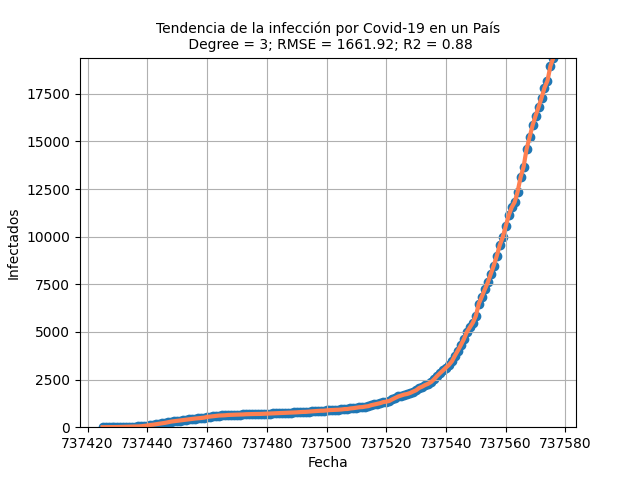
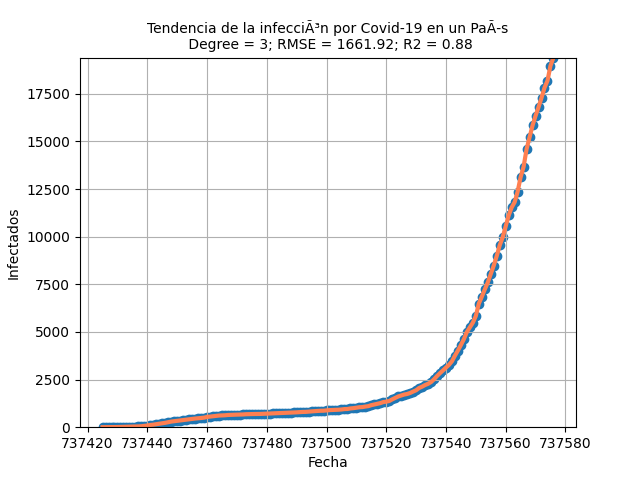
Solucione error de descarga de archivo rep 11 y 16

Changed region(s): [[0.2188, 0.0312, 0.7812, 0.0938]]

diff --git a/Proyecto/Templates/IEEErep11.html b/Proyecto/Templates/IEEErep11.html
@@ -36,21 +36,26 @@
         <table style="border: hidden" align="center">
             <tbody style="border: hidden">
                 <tr style="border: hidden">
-                    <th style="border: hidden" align="center">Porcentaje de hombres infectados por covid-19 en un Pais desde el primer caso activo</th>
+                    <th style="border: hidden" align="center">Porcentaje de hombres infectados por covid-19 en un País desde el primer caso activo</th>
                     <td style="border: hidden"> </td>
                     <th style="border: hidden" align="center">Interpretacion:</th>
                 </tr>
 
                 <tr style="border: hidden">
-                    <td style="border: hidden">El coronavirus afecta de manera desproporcionada a las poblaciones
-                        vulnerables, y corren mayor riesgo de contraerlo quienes viven en entornos superpoblados.
-                        Además, el estudio apunta que la falta de desglose de los datos favorece la desigualdad de los
-                        resultados sanitarios, ya que solo el 51% de los países incluyen datos desglosados en sus
-                        informes estadísticos nacionales. 
+                    <td style="border: hidden">Las tendencias responden a distintos estímulos. En ocasiones son
+                        adoptadas
+                        lentamente, a lo largo de cambios en la cultura, mientras en otras ocurren por una
+                        masiva adopción causada por un fuerte estímulo externo. En un mundo dominado
+                        por enormes organizaciones que muchas veces se constituyen en reglas antiguas,
+                        un shock como el del COVID-19 puede generar grandes cambios en la forma que
+                        se opera la economía.
                         <br>
-                        Uruguay y Panamá fueron los países que destacaron de todos los
-                        evaluados,
-                        tuvieron una mayor cantidad de casos confirmados ponderados en la primera semana de la pandemia.
+                        La gente elige en entornos familiares, rutinarios y seguros que les simplifican esa
+                        toma de decisiones, que muchas veces se vuelve automática. Pero la inestabilidad
+                        que ha traído el COVID-19 ha creado ambientes fuera de contexto, no familiares y
+                        sin predictibilidad. En este nuevo ambiente las empresas deben encontrar la forma
+                        de adaptarse para sobrevivir, porque la historia ha probado que incluso en la
+                        hostilidad de las crisis las empresas nuevas o innovadoras pueden prosperar.
                     </td>
                     <td style="border: hidden"></td>
                     <td style="border: hidden"> {{descripcion}} </td>

diff --git a/Proyecto/template.py b/Proyecto/template.py
@@ -1079,22 +1079,22 @@ def Reporte11():
 
     if(pend > 0):
         if(r2 < 0.25):
-            descripcion = "Actualmente se esta viviendo una situacion a nivel mundial con la enfermedad de Covid-19, en lo cual todos los paises nos hemos vuelto muy suceptibles, por lo cual gracias a las herramientas actuales se puede decir que " + "los paises " + " se ven afectados de manera directa. Por lo cual realizando un analisis de regresion polinomial de grado 3, nos podemos dar cuenta que se tiene un error cuadratico medio de " + str(round(rmse,2)) + " este error medio nos indica la cantidad de de error que tenemos entre los conjuntos de datos " + " de fechas e infecciones que se estan dando en el pais este datos nos ayuda para poder evaluar la tendencia entre dos valores, ahora bien nos podemos dar cuenta que el valor del coeficiente de determinación " + str(round(r2,2)) + " indica que el modelo no explica ninguna porción de la variabilidad de los datos de respuesta en torno a su media es decir que los datos en este caso no se encuentran correlacionados ya que estan muy alejados de 1." + "Con un indice de progresion positivo de " + str(pend) + "Por lo cual se tiene un porcentaje de muertes frente al total de casos de " + str(round(porcentaje,2)) + "%"
+            descripcion = "Actualmente se esta viviendo una situacion a nivel mundial con la enfermedad de Covid-19, en lo cual todos los paises nos hemos vuelto muy suceptibles, por lo cual gracias a las herramientas actuales se puede decir que " + "los paises " + " se ven afectados de manera directa. Por lo cual realizando un analisis de regresion polinomial de grado 3, nos podemos dar cuenta que se tiene un error cuadratico medio de " + str(round(rmse,2)) + " este error medio nos indica la cantidad de de error que tenemos entre los conjuntos de datos " + " de fechas e infecciones que se estan dando en el pais este datos nos ayuda para poder evaluar la tendencia entre dos valores, ahora bien nos podemos dar cuenta que el valor del coeficiente de determinación " + str(round(r2,2)) + " indica que el modelo no explica ninguna porción de la variabilidad de los datos de respuesta en torno a su media es decir que los datos en este caso no se encuentran correlacionados ya que estan muy alejados de 1." + "Con un indice de progresion positivo de " + str(pend) + "por lo cual el porcentaje de hombres infectados por covid-19 en un País desde el primer caso activo " + str(round(porcentaje,2))
         elif(r2 < 0.5):
-            descripcion = "Actualmente se esta viviendo una situacion a nivel mundial con la enfermedad de Covid-19, en lo cual todos los paises nos hemos vuelto muy suceptibles, por lo cual gracias a las herramientas actuales se puede decir que " + "los paises " + " se ve afectados de manera directa. Por lo cual realizando un analisis de regresion polinomial de grado 3, nos podemos dar cuenta que se tiene un error cuadratico medio de " + str(round(rmse,2)) + " este error medio nos indica la cantidad de de error que tenemos entre los conjuntos de datos " + " de fechas e infecciones que se estan dando en el pais este datos nos ayuda para poder evaluar la tendencia entre dos valores, ahora bien nos podemos dar cuenta que el valor del coeficiente de determinación " + str(round(r2,2)) + " indica que el modelo no explica ninguna porción de la variabilidad de los datos de respuesta en torno a su media es decir que los datos en este caso casi no se encuentran correlacionados ya que estan muy alejados de 1." + "Con un indice de progresion positivo de " + str(pend) + "Por lo cual se tiene un porcentaje de muertes frente al total de casos de " + str(round(porcentaje,2)) + "%"
+            descripcion = "Actualmente se esta viviendo una situacion a nivel mundial con la enfermedad de Covid-19, en lo cual todos los paises nos hemos vuelto muy suceptibles, por lo cual gracias a las herramientas actuales se puede decir que " + "los paises " + " se ve afectados de manera directa. Por lo cual realizando un analisis de regresion polinomial de grado 3, nos podemos dar cuenta que se tiene un error cuadratico medio de " + str(round(rmse,2)) + " este error medio nos indica la cantidad de de error que tenemos entre los conjuntos de datos " + " de fechas e infecciones que se estan dando en el pais este datos nos ayuda para poder evaluar la tendencia entre dos valores, ahora bien nos podemos dar cuenta que el valor del coeficiente de determinación " + str(round(r2,2)) + " indica que el modelo no explica ninguna porción de la variabilidad de los datos de respuesta en torno a su media es decir que los datos en este caso casi no se encuentran correlacionados ya que estan muy alejados de 1." + "Con un indice de progresion positivo de " + str(pend) + "por lo cual el porcentaje de hombres infectados por covid-19 en un País desde el primer caso activo" + str(round(porcentaje,2))
         elif(r2 < 0.75):
-            descripcion = "Actualmente se esta viviendo una situacion a nivel mundial con la enfermedad de Covid-19, en lo cual todos los paises nos hemos vuelto muy suceptibles, por lo cual gracias a las herramientas actuales se puede decir que " + "los paises " + " se ve afectados de manera directa. Por lo cual realizando un analisis de regresion polinomial de grado 3, nos podemos dar cuenta que se tiene un error cuadratico medio de " + str(round(rmse,2)) + " este error medio nos indica la cantidad de de error que tenemos entre los conjuntos de datos " + " de fechas e infecciones que se estan dando en el pais este datos nos ayuda para poder evaluar la tendencia entre dos valores, ahora bien nos podemos dar cuenta que el valor del coeficiente de determinación " + str(round(r2,2)) + " indica que el modelo medio explica la porción de la variabilidad de los datos de respuesta en torno a su media es decir que los datos en este caso se encuentran un poco correlacionados ya que no estan muy alejados de 1." + "Con un indice de progresion positivo de " + str(pend) + "Por lo cual se tiene un porcentaje de muertes frente al total de casos de " + str(round(porcentaje,2)) + "%"
+            descripcion = "Actualmente se esta viviendo una situacion a nivel mundial con la enfermedad de Covid-19, en lo cual todos los paises nos hemos vuelto muy suceptibles, por lo cual gracias a las herramientas actuales se puede decir que " + "los paises " + " se ve afectados de manera directa. Por lo cual realizando un analisis de regresion polinomial de grado 3, nos podemos dar cuenta que se tiene un error cuadratico medio de " + str(round(rmse,2)) + " este error medio nos indica la cantidad de de error que tenemos entre los conjuntos de datos " + " de fechas e infecciones que se estan dando en el pais este datos nos ayuda para poder evaluar la tendencia entre dos valores, ahora bien nos podemos dar cuenta que el valor del coeficiente de determinación " + str(round(r2,2)) + " indica que el modelo medio explica la porción de la variabilidad de los datos de respuesta en torno a su media es decir que los datos en este caso se encuentran un poco correlacionados ya que no estan muy alejados de 1." + "Con un indice de progresion positivo de " + str(pend) + "por lo cual el porcentaje de hombres infectados por covid-19 en un País desde el primer caso activo" + str(round(porcentaje,2))
         elif(r2 >= 0.75):
-            descripcion = "Actualmente se esta viviendo una situacion a nivel mundial con la enfermedad de Covid-19, en lo cual todos los paises nos hemos vuelto muy suceptibles, por lo cual gracias a las herramientas actuales se puede decir que " + "los paises " + " se ve afectados de manera directa. Por lo cual realizando un analisis de regresion polinomial de grado 3, nos podemos dar cuenta que se tiene un error cuadratico medio de " + str(round(rmse,2)) + " este error medio nos indica la cantidad de de error que tenemos entre los conjuntos de datos " + " de fechas e infecciones que se estan dando en el pais este datos nos ayuda para poder evaluar la tendencia entre dos valores, ahora bien nos podemos dar cuenta que el valor del coeficiente de determinación " + str(round(r2,2)) + " indica que el modelo indica que el modelo explica toda la variabilidad de los datos de respuesta en torno a su media es decir que los datos en este caso se encuentran correlacionados ya que estan muy cercanos a 1." + "Con un indice de progresion positivo de " + str(pend) + "Por lo cual se tiene un porcentaje de muertes frente al total de casos de " + str(round(porcentaje,2)) + "%"
+            descripcion = "Actualmente se esta viviendo una situacion a nivel mundial con la enfermedad de Covid-19, en lo cual todos los paises nos hemos vuelto muy suceptibles, por lo cual gracias a las herramientas actuales se puede decir que " + "los paises " + " se ve afectados de manera directa. Por lo cual realizando un analisis de regresion polinomial de grado 3, nos podemos dar cuenta que se tiene un error cuadratico medio de " + str(round(rmse,2)) + " este error medio nos indica la cantidad de de error que tenemos entre los conjuntos de datos " + " de fechas e infecciones que se estan dando en el pais este datos nos ayuda para poder evaluar la tendencia entre dos valores, ahora bien nos podemos dar cuenta que el valor del coeficiente de determinación " + str(round(r2,2)) + " indica que el modelo indica que el modelo explica toda la variabilidad de los datos de respuesta en torno a su media es decir que los datos en este caso se encuentran correlacionados ya que estan muy cercanos a 1." + "Con un indice de progresion positivo de " + str(pend) + "por lo cual el porcentaje de hombres infectados por covid-19 en un País desde el primer caso activo " + str(round(porcentaje,2))
     elif(pend < 0):
         if(r2 < 0.25):
-            descripcion = "Actualmente se esta viviendo una situacion a nivel mundial con la enfermedad de Covid-19, en lo cual todos los paises nos hemos vuelto muy suceptibles, por lo cual gracias a las herramientas actuales se puede decir que " + "los paises " + " se ven afectados de manera directa. Por lo cual realizando un analisis de regresion polinomial de grado 3, nos podemos dar cuenta que se tiene un error cuadratico medio de " + str(round(rmse,2)) + " este error medio nos indica la cantidad de de error que tenemos entre los conjuntos de datos " + " de fechas e infecciones que se estan dando en el pais este datos nos ayuda para poder evaluar la tendencia entre dos valores, ahora bien nos podemos dar cuenta que el valor del coeficiente de determinación " + str(round(r2,2)) + " indica que el modelo no explica ninguna porción de la variabilidad de los datos de respuesta en torno a su media es decir que los datos en este caso no se encuentran correlacionados ya que estan muy alejados de 1." + "Con un indice de progresion negativo de " + str(pend) + "Por lo cual se tiene un porcentaje de muertes frente al total de casos de " + str(round(porcentaje,2)) + "%"
+            descripcion = "Actualmente se esta viviendo una situacion a nivel mundial con la enfermedad de Covid-19, en lo cual todos los paises nos hemos vuelto muy suceptibles, por lo cual gracias a las herramientas actuales se puede decir que " + "los paises " + " se ven afectados de manera directa. Por lo cual realizando un analisis de regresion polinomial de grado 3, nos podemos dar cuenta que se tiene un error cuadratico medio de " + str(round(rmse,2)) + " este error medio nos indica la cantidad de de error que tenemos entre los conjuntos de datos " + " de fechas e infecciones que se estan dando en el pais este datos nos ayuda para poder evaluar la tendencia entre dos valores, ahora bien nos podemos dar cuenta que el valor del coeficiente de determinación " + str(round(r2,2)) + " indica que el modelo no explica ninguna porción de la variabilidad de los datos de respuesta en torno a su media es decir que los datos en este caso no se encuentran correlacionados ya que estan muy alejados de 1." + "Con un indice de progresion negativo de " + str(pend) + "por lo cual el porcentaje de hombres infectados por covid-19 en un País desde el primer caso activo" + str(round(porcentaje,2))
         elif(r2 < 0.5):
-            descripcion = "Actualmente se esta viviendo una situacion a nivel mundial con la enfermedad de Covid-19, en lo cual todos los paises nos hemos vuelto muy suceptibles, por lo cual gracias a las herramientas actuales se puede decir que " + "los paises " + " se ve afectados de manera directa. Por lo cual realizando un analisis de regresion polinomial de grado 3, nos podemos dar cuenta que se tiene un error cuadratico medio de " + str(round(rmse,2)) + " este error medio nos indica la cantidad de de error que tenemos entre los conjuntos de datos " + " de fechas e infecciones que se estan dando en el pais este datos nos ayuda para poder evaluar la tendencia entre dos valores, ahora bien nos podemos dar cuenta que el valor del coeficiente de determinación " + str(round(r2,2)) + " indica que el modelo no explica ninguna porción de la variabilidad de los datos de respuesta en torno a su media es decir que los datos en este caso casi no se encuentran correlacionados ya que estan muy alejados de 1." + "Con un indice de progresion negativo de " + str(pend) + "Por lo cual se tiene un porcentaje de muertes frente al total de casos de " + str(round(porcentaje,2)) + "%"
+            descripcion = "Actualmente se esta viviendo una situacion a nivel mundial con la enfermedad de Covid-19, en lo cual todos los paises nos hemos vuelto muy suceptibles, por lo cual gracias a las herramientas actuales se puede decir que " + "los paises " + " se ve afectados de manera directa. Por lo cual realizando un analisis de regresion polinomial de grado 3, nos podemos dar cuenta que se tiene un error cuadratico medio de " + str(round(rmse,2)) + " este error medio nos indica la cantidad de de error que tenemos entre los conjuntos de datos " + " de fechas e infecciones que se estan dando en el pais este datos nos ayuda para poder evaluar la tendencia entre dos valores, ahora bien nos podemos dar cuenta que el valor del coeficiente de determinación " + str(round(r2,2)) + " indica que el modelo no explica ninguna porción de la variabilidad de los datos de respuesta en torno a su media es decir que los datos en este caso casi no se encuentran correlacionados ya que estan muy alejados de 1." + "Con un indice de progresion negativo de " + str(pend) + "por lo cual el porcentaje de hombres infectados por covid-19 en un País desde el primer caso activo " + str(round(porcentaje,2))
         elif(r2 < 0.75):
-            descripcion = "Actualmente se esta viviendo una situacion a nivel mundial con la enfermedad de Covid-19, en lo cual todos los paises nos hemos vuelto muy suceptibles, por lo cual gracias a las herramientas actuales se puede decir que " + "los paises " + " se ve afectados de manera directa. Por lo cual realizando un analisis de regresion polinomial de grado 3, nos podemos dar cuenta que se tiene un error cuadratico medio de " + str(round(rmse,2)) + " este error medio nos indica la cantidad de de error que tenemos entre los conjuntos de datos " + " de fechas e infecciones que se estan dando en el pais este datos nos ayuda para poder evaluar la tendencia entre dos valores, ahora bien nos podemos dar cuenta que el valor del coeficiente de determinación " + str(round(r2,2)) + " indica que el modelo medio explica la porción de la variabilidad de los datos de respuesta en torno a su media es decir que los datos en este caso se encuentran un poco correlacionados ya que no estan muy alejados de 1." + "Con un indice de progresion negativo de " + str(pend) + "Por lo cual se tiene un porcentaje de muertes frente al total de casos de " + str(round(porcentaje,2)) + "%"
+            descripcion = "Actualmente se esta viviendo una situacion a nivel mundial con la enfermedad de Covid-19, en lo cual todos los paises nos hemos vuelto muy suceptibles, por lo cual gracias a las herramientas actuales se puede decir que " + "los paises " + " se ve afectados de manera directa. Por lo cual realizando un analisis de regresion polinomial de grado 3, nos podemos dar cuenta que se tiene un error cuadratico medio de " + str(round(rmse,2)) + " este error medio nos indica la cantidad de de error que tenemos entre los conjuntos de datos " + " de fechas e infecciones que se estan dando en el pais este datos nos ayuda para poder evaluar la tendencia entre dos valores, ahora bien nos podemos dar cuenta que el valor del coeficiente de determinación " + str(round(r2,2)) + " indica que el modelo medio explica la porción de la variabilidad de los datos de respuesta en torno a su media es decir que los datos en este caso se encuentran un poco correlacionados ya que no estan muy alejados de 1." + "Con un indice de progresion negativo de " + str(pend) + "por lo cual el porcentaje de hombres infectados por covid-19 en un País desde el primer caso activo  " + str(round(porcentaje,2))
         elif(r2 >= 0.75):
-            descripcion = "Actualmente se esta viviendo una situacion a nivel mundial con la enfermedad de Covid-19, en lo cual todos los paises nos hemos vuelto muy suceptibles, por lo cual gracias a las herramientas actuales se puede decir que " + "los paises " + " se ve afectados de manera directa. Por lo cual realizando un analisis de regresion polinomial de grado 3, nos podemos dar cuenta que se tiene un error cuadratico medio de " + str(round(rmse,2)) + " este error medio nos indica la cantidad de de error que tenemos entre los conjuntos de datos " + " de fechas e infecciones que se estan dando en el pais este datos nos ayuda para poder evaluar la tendencia entre dos valores, ahora bien nos podemos dar cuenta que el valor del coeficiente de determinación " + str(round(r2,2)) + " indica que el modelo indica que el modelo explica toda la variabilidad de los datos de respuesta en torno a su media es decir que los datos en este caso se encuentran correlacionados ya que estan muy cercanos a 1." + "Con un indice de progresion negativo de " + str(pend) + "Por lo cual se tiene un porcentaje de muertes frente al total de casos de " + str(round(porcentaje,2)) + "%"
+            descripcion = "Actualmente se esta viviendo una situacion a nivel mundial con la enfermedad de Covid-19, en lo cual todos los paises nos hemos vuelto muy suceptibles, por lo cual gracias a las herramientas actuales se puede decir que " + "los paises " + " se ve afectados de manera directa. Por lo cual realizando un analisis de regresion polinomial de grado 3, nos podemos dar cuenta que se tiene un error cuadratico medio de " + str(round(rmse,2)) + " este error medio nos indica la cantidad de de error que tenemos entre los conjuntos de datos " + " de fechas e infecciones que se estan dando en el pais este datos nos ayuda para poder evaluar la tendencia entre dos valores, ahora bien nos podemos dar cuenta que el valor del coeficiente de determinación " + str(round(r2,2)) + " indica que el modelo indica que el modelo explica toda la variabilidad de los datos de respuesta en torno a su media es decir que los datos en este caso se encuentran correlacionados ya que estan muy cercanos a 1." + "Con un indice de progresion negativo de " + str(pend) + "por lo cual el porcentaje de hombres infectados por covid-19 en un País desde el primer caso activo " + str(round(porcentaje,2))
         
     #descripcion = "Actualmente se esta viviendo una situacion a nivel mundial con la enfermedad de Covid-19, en lo cual todos los paises nos hemos vuelto muy suceptibles, por lo cual gracias a las herramientas actuales se puede decir que " + seleccion_rep1 + " se ve afectado de manera directa. Por lo cual realizando un analisis de regresion polinomial de grado 3, nos podemos dar cuenta que se tiene un error cuadratico medio de " + str(round(rmse,2)) + " este error medio nos indica la cantidad de de error que tenemos entre los conjuntos de datos " + " de fechas e infecciones que se estan dando en el pais este datos nos ayuda para poder evaluar la tendencia entre dos valores, ahora bien nos podemos dar cuenta que "
     
@@ -1380,22 +1380,22 @@ def Reporte16():
 
     if(pend > 0):
         if(r2 < 0.25):
-            descripcion = "Actualmente se esta viviendo una situacion a nivel mundial con la enfermedad de Covid-19, en lo cual todos los paises nos hemos vuelto muy suceptibles, por lo cual gracias a las herramientas actuales se puede decir que " + "los paises " + " se ven afectados de manera directa. Por lo cual realizando un analisis de regresion polinomial de grado 3, nos podemos dar cuenta que se tiene un error cuadratico medio de " + str(round(rmse,2)) + " este error medio nos indica la cantidad de de error que tenemos entre los conjuntos de datos " + " de fechas e infecciones que se estan dando en el pais este datos nos ayuda para poder evaluar la tendencia entre dos valores, ahora bien nos podemos dar cuenta que el valor del coeficiente de determinación " + str(round(r2,2)) + " indica que el modelo no explica ninguna porción de la variabilidad de los datos de respuesta en torno a su media es decir que los datos en este caso no se encuentran correlacionados ya que estan muy alejados de 1." + "Con un indice de progresion positivo de " + str(pend) + "Por lo cual se tiene un porcentaje de muertes frente al total de casos de " + str(round(porcentaje,2)) + "%"
+            descripcion = "Actualmente se esta viviendo una situacion a nivel mundial con la enfermedad de Covid-19, en lo cual todos los paises nos hemos vuelto muy suceptibles, por lo cual gracias a las herramientas actuales se puede decir que " + "los paises " + " se ven afectados de manera directa. Por lo cual realizando un analisis de regresion polinomial de grado 3, nos podemos dar cuenta que se tiene un error cuadratico medio de " + str(round(rmse,2)) + " este error medio nos indica la cantidad de de error que tenemos entre los conjuntos de datos " + " de fechas e infecciones que se estan dando en el pais este datos nos ayuda para poder evaluar la tendencia entre dos valores, ahora bien nos podemos dar cuenta que el valor del coeficiente de determinación " + str(round(r2,2)) + " indica que el modelo no explica ninguna porción de la variabilidad de los datos de respuesta en torno a su media es decir que los datos en este caso no se encuentran correlacionados ya que estan muy alejados de 1." + "Con un indice de progresion positivo de " + str(pend) + "Por lo cual se tiene un porcentaje de muertes frente al total de casos de " + str(round(porcentaje,2))
         elif(r2 < 0.5):
-            descripcion = "Actualmente se esta viviendo una situacion a nivel mundial con la enfermedad de Covid-19, en lo cual todos los paises nos hemos vuelto muy suceptibles, por lo cual gracias a las herramientas actuales se puede decir que " + "los paises " + " se ve afectados de manera directa. Por lo cual realizando un analisis de regresion polinomial de grado 3, nos podemos dar cuenta que se tiene un error cuadratico medio de " + str(round(rmse,2)) + " este error medio nos indica la cantidad de de error que tenemos entre los conjuntos de datos " + " de fechas e infecciones que se estan dando en el pais este datos nos ayuda para poder evaluar la tendencia entre dos valores, ahora bien nos podemos dar cuenta que el valor del coeficiente de determinación " + str(round(r2,2)) + " indica que el modelo no explica ninguna porción de la variabilidad de los datos de respuesta en torno a su media es decir que los datos en este caso casi no se encuentran correlacionados ya que estan muy alejados de 1." + "Con un indice de progresion positivo de " + str(pend) + "Por lo cual se tiene un porcentaje de muertes frente al total de casos de " + str(round(porcentaje,2)) + "%"
+            descripcion = "Actualmente se esta viviendo una situacion a nivel mundial con la enfermedad de Covid-19, en lo cual todos los paises nos hemos vuelto muy suceptibles, por lo cual gracias a las herramientas actuales se puede decir que " + "los paises " + " se ve afectados de manera directa. Por lo cual realizando un analisis de regresion polinomial de grado 3, nos podemos dar cuenta que se tiene un error cuadratico medio de " + str(round(rmse,2)) + " este error medio nos indica la cantidad de de error que tenemos entre los conjuntos de datos " + " de fechas e infecciones que se estan dando en el pais este datos nos ayuda para poder evaluar la tendencia entre dos valores, ahora bien nos podemos dar cuenta que el valor del coeficiente de determinación " + str(round(r2,2)) + " indica que el modelo no explica ninguna porción de la variabilidad de los datos de respuesta en torno a su media es decir que los datos en este caso casi no se encuentran correlacionados ya que estan muy alejados de 1." + "Con un indice de progresion positivo de " + str(pend) + "Por lo cual se tiene un porcentaje de muertes frente al total de casos de " + str(round(porcentaje,2))
         elif(r2 < 0.75):
-            descripcion = "Actualmente se esta viviendo una situacion a nivel mundial con la enfermedad de Covid-19, en lo cual todos los paises nos hemos vuelto muy suceptibles, por lo cual gracias a las herramientas actuales se puede decir que " + "los paises " + " se ve afectados de manera directa. Por lo cual realizando un analisis de regresion polinomial de grado 3, nos podemos dar cuenta que se tiene un error cuadratico medio de " + str(round(rmse,2)) + " este error medio nos indica la cantidad de de error que tenemos entre los conjuntos de datos " + " de fechas e infecciones que se estan dando en el pais este datos nos ayuda para poder evaluar la tendencia entre dos valores, ahora bien nos podemos dar cuenta que el valor del coeficiente de determinación " + str(round(r2,2)) + " indica que el modelo medio explica la porción de la variabilidad de los datos de respuesta en torno a su media es decir que los datos en este caso se encuentran un poco correlacionados ya que no estan muy alejados de 1." + "Con un indice de progresion positivo de " + str(pend) + "Por lo cual se tiene un porcentaje de muertes frente al total de casos de " + str(round(porcentaje,2)) + "%"
+            descripcion = "Actualmente se esta viviendo una situacion a nivel mundial con la enfermedad de Covid-19, en lo cual todos los paises nos hemos vuelto muy suceptibles, por lo cual gracias a las herramientas actuales se puede decir que " + "los paises " + " se ve afectados de manera directa. Por lo cual realizando un analisis de regresion polinomial de grado 3, nos podemos dar cuenta que se tiene un error cuadratico medio de " + str(round(rmse,2)) + " este error medio nos indica la cantidad de de error que tenemos entre los conjuntos de datos " + " de fechas e infecciones que se estan dando en el pais este datos nos ayuda para poder evaluar la tendencia entre dos valores, ahora bien nos podemos dar cuenta que el valor del coeficiente de determinación " + str(round(r2,2)) + " indica que el modelo medio explica la porción de la variabilidad de los datos de respuesta en torno a su media es decir que los datos en este caso se encuentran un poco correlacionados ya que no estan muy alejados de 1." + "Con un indice de progresion positivo de " + str(pend) + "Por lo cual se tiene un porcentaje de muertes frente al total de casos de " + str(round(porcentaje,2)) 
         elif(r2 >= 0.75):
-            descripcion = "Actualmente se esta viviendo una situacion a nivel mundial con la enfermedad de Covid-19, en lo cual todos los paises nos hemos vuelto muy suceptibles, por lo cual gracias a las herramientas actuales se puede decir que " + "los paises " + " se ve afectados de manera directa. Por lo cual realizando un analisis de regresion polinomial de grado 3, nos podemos dar cuenta que se tiene un error cuadratico medio de " + str(round(rmse,2)) + " este error medio nos indica la cantidad de de error que tenemos entre los conjuntos de datos " + " de fechas e infecciones que se estan dando en el pais este datos nos ayuda para poder evaluar la tendencia entre dos valores, ahora bien nos podemos dar cuenta que el valor del coeficiente de determinación " + str(round(r2,2)) + " indica que el modelo indica que el modelo explica toda la variabilidad de los datos de respuesta en torno a su media es decir que los datos en este caso se encuentran correlacionados ya que estan muy cercanos a 1." + "Con un indice de progresion positivo de " + str(pend) + "Por lo cual se tiene un porcentaje de muertes frente al total de casos de " + str(round(porcentaje,2)) + "%"
+            descripcion = "Actualmente se esta viviendo una situacion a nivel mundial con la enfermedad de Covid-19, en lo cual todos los paises nos hemos vuelto muy suceptibles, por lo cual gracias a las herramientas actuales se puede decir que " + "los paises " + " se ve afectados de manera directa. Por lo cual realizando un analisis de regresion polinomial de grado 3, nos podemos dar cuenta que se tiene un error cuadratico medio de " + str(round(rmse,2)) + " este error medio nos indica la cantidad de de error que tenemos entre los conjuntos de datos " + " de fechas e infecciones que se estan dando en el pais este datos nos ayuda para poder evaluar la tendencia entre dos valores, ahora bien nos podemos dar cuenta que el valor del coeficiente de determinación " + str(round(r2,2)) + " indica que el modelo indica que el modelo explica toda la variabilidad de los datos de respuesta en torno a su media es decir que los datos en este caso se encuentran correlacionados ya que estan muy cercanos a 1." + "Con un indice de progresion positivo de " + str(pend) + "Por lo cual se tiene un porcentaje de muertes frente al total de casos de " + str(round(porcentaje,2)) 
     elif(pend < 0):
         if(r2 < 0.25):
-            descripcion = "Actualmente se esta viviendo una situacion a nivel mundial con la enfermedad de Covid-19, en lo cual todos los paises nos hemos vuelto muy suceptibles, por lo cual gracias a las herramientas actuales se puede decir que " + "los paises " + " se ven afectados de manera directa. Por lo cual realizando un analisis de regresion polinomial de grado 3, nos podemos dar cuenta que se tiene un error cuadratico medio de " + str(round(rmse,2)) + " este error medio nos indica la cantidad de de error que tenemos entre los conjuntos de datos " + " de fechas e infecciones que se estan dando en el pais este datos nos ayuda para poder evaluar la tendencia entre dos valores, ahora bien nos podemos dar cuenta que el valor del coeficiente de determinación " + str(round(r2,2)) + " indica que el modelo no explica ninguna porción de la variabilidad de los datos de respuesta en torno a su media es decir que los datos en este caso no se encuentran correlacionados ya que estan muy alejados de 1." + "Con un indice de progresion negativo de " + str(pend) + "Por lo cual se tiene un porcentaje de muertes frente al total de casos de " + str(round(porcentaje,2)) + "%"
+            descripcion = "Actualmente se esta viviendo una situacion a nivel mundial con la enfermedad de Covid-19, en lo cual todos los paises nos hemos vuelto muy suceptibles, por lo cual gracias a las herramientas actuales se puede decir que " + "los paises " + " se ven afectados de manera directa. Por lo cual realizando un analisis de regresion polinomial de grado 3, nos podemos dar cuenta que se tiene un error cuadratico medio de " + str(round(rmse,2)) + " este error medio nos indica la cantidad de de error que tenemos entre los conjuntos de datos " + " de fechas e infecciones que se estan dando en el pais este datos nos ayuda para poder evaluar la tendencia entre dos valores, ahora bien nos podemos dar cuenta que el valor del coeficiente de determinación " + str(round(r2,2)) + " indica que el modelo no explica ninguna porción de la variabilidad de los datos de respuesta en torno a su media es decir que los datos en este caso no se encuentran correlacionados ya que estan muy alejados de 1." + "Con un indice de progresion negativo de " + str(pend) + "Por lo cual se tiene un porcentaje de muertes frente al total de casos de " + str(round(porcentaje,2)) 
         elif(r2 < 0.5):
-            descripcion = "Actualmente se esta viviendo una situacion a nivel mundial con la enfermedad de Covid-19, en lo cual todos los paises nos hemos vuelto muy suceptibles, por lo cual gracias a las herramientas actuales se puede decir que " + "los paises " + " se ve afectados de manera directa. Por lo cual realizando un analisis de regresion polinomial de grado 3, nos podemos dar cuenta que se tiene un error cuadratico medio de " + str(round(rmse,2)) + " este error medio nos indica la cantidad de de error que tenemos entre los conjuntos de datos " + " de fechas e infecciones que se estan dando en el pais este datos nos ayuda para poder evaluar la tendencia entre dos valores, ahora bien nos podemos dar cuenta que el valor del coeficiente de determinación " + str(round(r2,2)) + " indica que el modelo no explica ninguna porción de la variabilidad de los datos de respuesta en torno a su media es decir que los datos en este caso casi no se encuentran correlacionados ya que estan muy alejados de 1." + "Con un indice de progresion negativo de " + str(pend) + "Por lo cual se tiene un porcentaje de muertes frente al total de casos de " + str(round(porcentaje,2)) + "%"
+            descripcion = "Actualmente se esta viviendo una situacion a nivel mundial con la enfermedad de Covid-19, en lo cual todos los paises nos hemos vuelto muy suceptibles, por lo cual gracias a las herramientas actuales se puede decir que " + "los paises " + " se ve afectados de manera directa. Por lo cual realizando un analisis de regresion polinomial de grado 3, nos podemos dar cuenta que se tiene un error cuadratico medio de " + str(round(rmse,2)) + " este error medio nos indica la cantidad de de error que tenemos entre los conjuntos de datos " + " de fechas e infecciones que se estan dando en el pais este datos nos ayuda para poder evaluar la tendencia entre dos valores, ahora bien nos podemos dar cuenta que el valor del coeficiente de determinación " + str(round(r2,2)) + " indica que el modelo no explica ninguna porción de la variabilidad de los datos de respuesta en torno a su media es decir que los datos en este caso casi no se encuentran correlacionados ya que estan muy alejados de 1." + "Con un indice de progresion negativo de " + str(pend) + "Por lo cual se tiene un porcentaje de muertes frente al total de casos de " + str(round(porcentaje,2)) 
         elif(r2 < 0.75):
-            descripcion = "Actualmente se esta viviendo una situacion a nivel mundial con la enfermedad de Covid-19, en lo cual todos los paises nos hemos vuelto muy suceptibles, por lo cual gracias a las herramientas actuales se puede decir que " + "los paises " + " se ve afectados de manera directa. Por lo cual realizando un analisis de regresion polinomial de grado 3, nos podemos dar cuenta que se tiene un error cuadratico medio de " + str(round(rmse,2)) + " este error medio nos indica la cantidad de de error que tenemos entre los conjuntos de datos " + " de fechas e infecciones que se estan dando en el pais este datos nos ayuda para poder evaluar la tendencia entre dos valores, ahora bien nos podemos dar cuenta que el valor del coeficiente de determinación " + str(round(r2,2)) + " indica que el modelo medio explica la porción de la variabilidad de los datos de respuesta en torno a su media es decir que los datos en este caso se encuentran un poco correlacionados ya que no estan muy alejados de 1." + "Con un indice de progresion negativo de " + str(pend) + "Por lo cual se tiene un porcentaje de muertes frente al total de casos de " + str(round(porcentaje,2)) + "%"
+            descripcion = "Actualmente se esta viviendo una situacion a nivel mundial con la enfermedad de Covid-19, en lo cual todos los paises nos hemos vuelto muy suceptibles, por lo cual gracias a las herramientas actuales se puede decir que " + "los paises " + " se ve afectados de manera directa. Por lo cual realizando un analisis de regresion polinomial de grado 3, nos podemos dar cuenta que se tiene un error cuadratico medio de " + str(round(rmse,2)) + " este error medio nos indica la cantidad de de error que tenemos entre los conjuntos de datos " + " de fechas e infecciones que se estan dando en el pais este datos nos ayuda para poder evaluar la tendencia entre dos valores, ahora bien nos podemos dar cuenta que el valor del coeficiente de determinación " + str(round(r2,2)) + " indica que el modelo medio explica la porción de la variabilidad de los datos de respuesta en torno a su media es decir que los datos en este caso se encuentran un poco correlacionados ya que no estan muy alejados de 1." + "Con un indice de progresion negativo de " + str(pend) + "Por lo cual se tiene un porcentaje de muertes frente al total de casos de " + str(round(porcentaje,2)) 
         elif(r2 >= 0.75):
-            descripcion = "Actualmente se esta viviendo una situacion a nivel mundial con la enfermedad de Covid-19, en lo cual todos los paises nos hemos vuelto muy suceptibles, por lo cual gracias a las herramientas actuales se puede decir que " + "los paises " + " se ve afectados de manera directa. Por lo cual realizando un analisis de regresion polinomial de grado 3, nos podemos dar cuenta que se tiene un error cuadratico medio de " + str(round(rmse,2)) + " este error medio nos indica la cantidad de de error que tenemos entre los conjuntos de datos " + " de fechas e infecciones que se estan dando en el pais este datos nos ayuda para poder evaluar la tendencia entre dos valores, ahora bien nos podemos dar cuenta que el valor del coeficiente de determinación " + str(round(r2,2)) + " indica que el modelo indica que el modelo explica toda la variabilidad de los datos de respuesta en torno a su media es decir que los datos en este caso se encuentran correlacionados ya que estan muy cercanos a 1." + "Con un indice de progresion negativo de " + str(pend) + "Por lo cual se tiene un porcentaje de muertes frente al total de casos de " + str(round(porcentaje,2)) + "%"
+            descripcion = "Actualmente se esta viviendo una situacion a nivel mundial con la enfermedad de Covid-19, en lo cual todos los paises nos hemos vuelto muy suceptibles, por lo cual gracias a las herramientas actuales se puede decir que " + "los paises " + " se ve afectados de manera directa. Por lo cual realizando un analisis de regresion polinomial de grado 3, nos podemos dar cuenta que se tiene un error cuadratico medio de " + str(round(rmse,2)) + " este error medio nos indica la cantidad de de error que tenemos entre los conjuntos de datos " + " de fechas e infecciones que se estan dando en el pais este datos nos ayuda para poder evaluar la tendencia entre dos valores, ahora bien nos podemos dar cuenta que el valor del coeficiente de determinación " + str(round(r2,2)) + " indica que el modelo indica que el modelo explica toda la variabilidad de los datos de respuesta en torno a su media es decir que los datos en este caso se encuentran correlacionados ya que estan muy cercanos a 1." + "Con un indice de progresion negativo de " + str(pend) + "Por lo cual se tiene un porcentaje de muertes frente al total de casos de " + str(round(porcentaje,2))
         
     #descripcion = "Actualmente se esta viviendo una situacion a nivel mundial con la enfermedad de Covid-19, en lo cual todos los paises nos hemos vuelto muy suceptibles, por lo cual gracias a las herramientas actuales se puede decir que " + seleccion_rep1 + " se ve afectado de manera directa. Por lo cual realizando un analisis de regresion polinomial de grado 3, nos podemos dar cuenta que se tiene un error cuadratico medio de " + str(round(rmse,2)) + " este error medio nos indica la cantidad de de error que tenemos entre los conjuntos de datos " + " de fechas e infecciones que se estan dando en el pais este datos nos ayuda para poder evaluar la tendencia entre dos valores, ahora bien nos podemos dar cuenta que "
     
